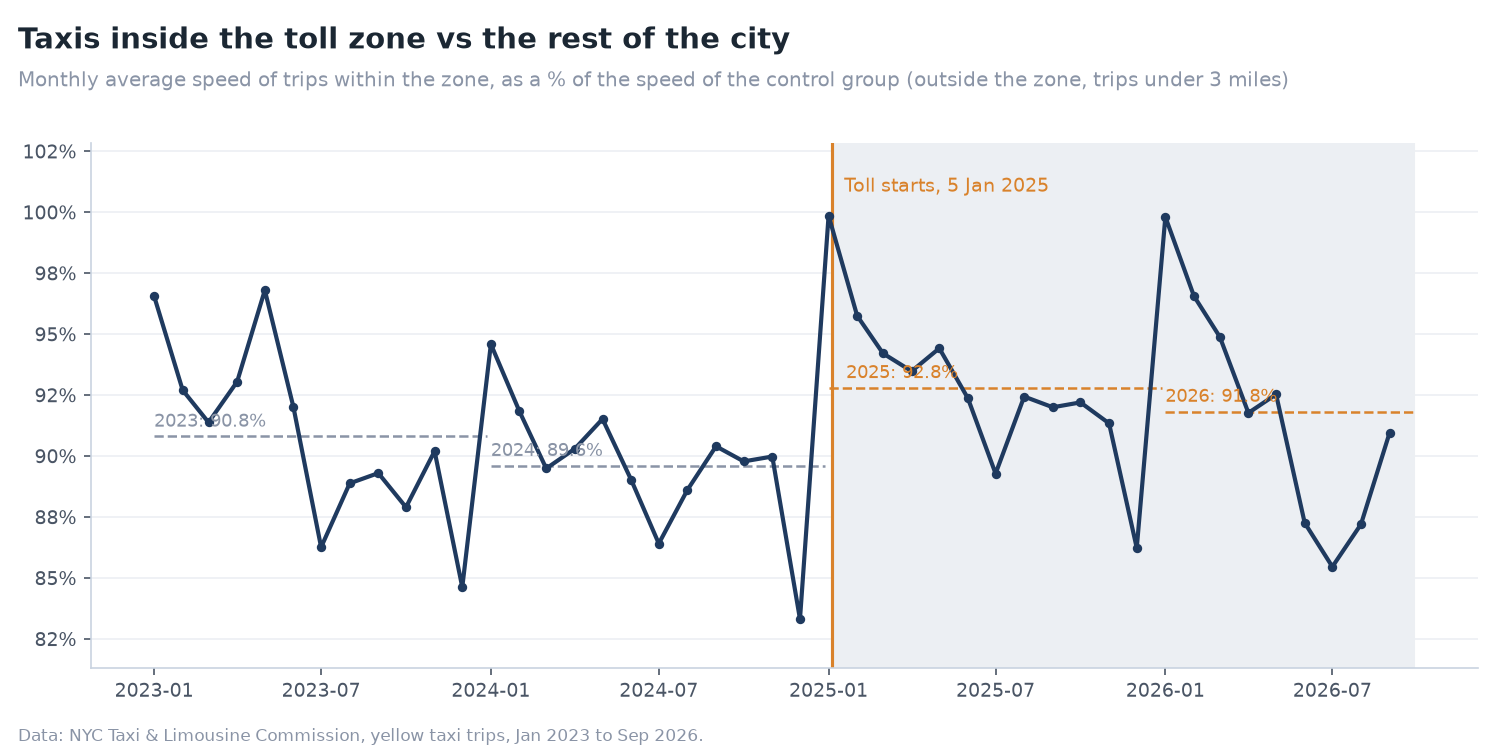
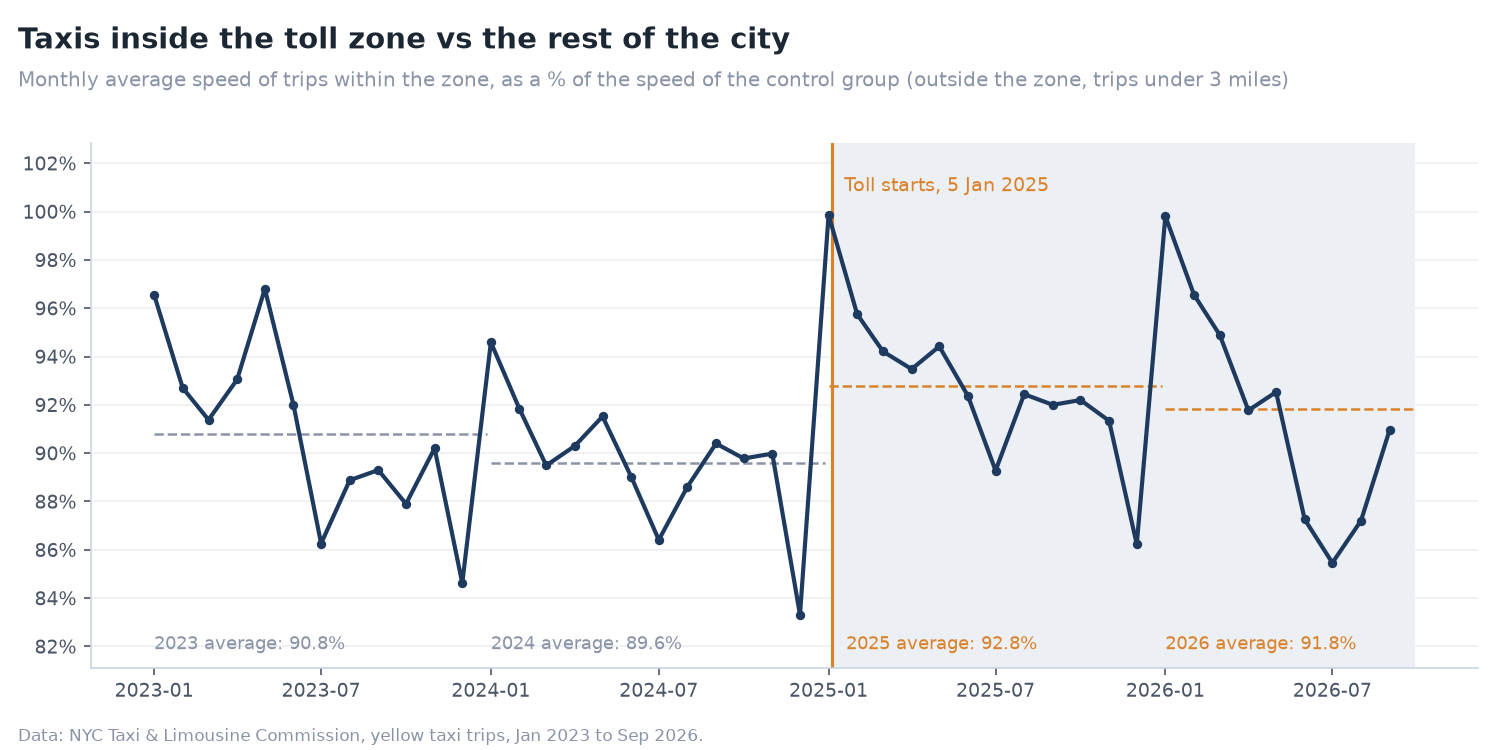
Add Power BI dashboard screenshots and final README

diff --git a/powerbi/build_report.py b/powerbi/build_report.py
@@ -98,14 +98,14 @@ def effect(comparison: str, scope: str, main_only: bool = True) -> list[str]:
 PCT = '+0.0%;-0.0%;0.0%'
 MEASURES = {
     "fct_trips_hourly": [
-        ("Trips", ["SUM(fct_trips_hourly[trips])"], "#,0"),
+        ("Total trips", ["SUM(fct_trips_hourly[trips])"], "#,0"),
         ("Revenue", ["SUM(fct_trips_hourly[total_amount])"], '"$"#,0'),
-        ("Average fare", ["DIVIDE(SUM(fct_trips_hourly[fare_amount]), [Trips])"], '"$"#,0.00'),
+        ("Average fare", ["DIVIDE(SUM(fct_trips_hourly[fare_amount]), [Total trips])"], '"$"#,0.00'),
         ("Average speed (mph)", ["DIVIDE(SUM(fct_trips_hourly[distance_mi]), SUM(fct_trips_hourly[duration_min]) / 60)"], "0.0"),
-        ("Average trip time (min)", ["DIVIDE(SUM(fct_trips_hourly[duration_min]), [Trips])"], "0.0"),
+        ("Average trip time (min)", ["DIVIDE(SUM(fct_trips_hourly[duration_min]), [Total trips])"], "0.0"),
         ("Congestion fees paid", ["SUM(fct_trips_hourly[cbd_fee])"], '"$"#,0'),
-        ("Trips vs previous year", ["VAR Previous = CALCULATE([Trips], DATEADD(dim_date[date], -1, YEAR))",
-                                    "RETURN DIVIDE([Trips] - Previous, Previous)"], PCT),
+        ("Trips vs previous year", ["VAR Previous = CALCULATE([Total trips], DATEADD(dim_date[date], -1, YEAR))",
+                                    "RETURN DIVIDE([Total trips] - Previous, Previous)"], PCT),
         ("Data up to", ['FORMAT(CALCULATE(MAX(fct_trips_hourly[pickup_date]), ALL(fct_trips_hourly)), "mmm yyyy")'], None),
     ],
     "mart_toll_effect": [
@@ -150,8 +150,6 @@ def column(table: str, name: str, dtype: str) -> dict:
         col["isHidden"] = True
     if (table, name) == ("dim_date", "date"):
         col["isKey"] = True
-    if (table, name) == ("dim_date", "year_month"):
-        col["sortByColumn"] = "date"
     if (table, name) == ("dim_segment", "segment_label"):
         col["sortByColumn"] = "sort_order"
     return col
@@ -356,14 +354,14 @@ def build_pages(definition: Path) -> list[str]:
     q = Page(pages, "taxi_activity", "Taxi activity")
     q.title("NYC yellow taxi activity", "Trips, revenue and congestion fees, by month and by relation to the toll zone")
     q.slicer("year_filter", 1064, 14, 200, 50, "dim_date", "year", "Year")
-    q.card("kpi_trips", 16, 80, 302, "fct_trips_hourly", "Trips", "Number of valid trips")
+    q.card("kpi_trips", 16, 80, 302, "fct_trips_hourly", "Total trips", "Number of valid trips")
     q.card("kpi_revenue", 330, 80, 302, "fct_trips_hourly", "Revenue", "Total amount paid by passengers")
     q.card("kpi_fare", 644, 80, 302, "fct_trips_hourly", "Average fare", "Average metered fare per trip")
     q.card("kpi_fees", 958, 80, 306, "fct_trips_hourly", "Congestion fees paid",
            "Congestion fees paid by taxi passengers", C["orange"])
     q.chart("trips_by_month", 16, 180, 820, 300, "columnChart", "Trips per month by relation to the toll zone",
             "Monthly trips stacked by segment",
-            pc("dim_date", "year_month", displayName="Month"), [pm("fct_trips_hourly", "Trips")],
+            pc("dim_date", "year_month", displayName="Month"), [pm("fct_trips_hourly", "Total trips")],
             series=pc("dim_segment", "segment_label", displayName="Segment"),
             sort={"field": column_ref("dim_date", "year_month"), "direction": "Ascending"}, labels=False)
     q.chart("speed_by_segment", 848, 180, 416, 300, "clusteredBarChart", "Average speed by segment (mph)",

diff --git a/scripts/make_charts.py b/scripts/make_charts.py
@@ -16,6 +16,7 @@ matplotlib.use("Agg")
 import matplotlib.pyplot as plt  # noqa: E402
 from matplotlib.patches import PathPatch  # noqa: E402
 from matplotlib.path import Path as MplPath  # noqa: E402
+from matplotlib.ticker import MultipleLocator  # noqa: E402
 
 NAVY = "#1F3A5F"
 ORANGE = "#D9822B"
@@ -64,11 +65,13 @@ def chart_monthly_gap(exports: Path, out: Path, last_month: str, control: str) -
         color = ORANGE if year >= TOLL_START.year else GREY
         ax.hlines(mean, start, end, colors=color, linestyles="--", linewidth=1.2, zorder=2)
         label_x = start.replace(day=20) if year == TOLL_START.year else start
-        ax.text(label_x, mean + 0.4, f"{year}: {mean:.1f}%", fontsize=8.5, color=color)
+        ax.text(label_x, min(ratio) - 1.6, f"{year} average: {mean:.1f}%", fontsize=8.5, color=color,
+                va="bottom", zorder=5)
 
     ax.axvline(TOLL_START, color=ORANGE, linewidth=1.5)
     ax.text(TOLL_START, max(ratio) + 0.8, "  Toll starts, 5 Jan 2025", color=ORANGE, fontsize=9, va="bottom")
-    ax.set_ylim(min(ratio) - 2, max(ratio) + 3)
+    ax.set_ylim(min(ratio) - 2.2, max(ratio) + 3)
+    ax.yaxis.set_major_locator(MultipleLocator(2))
     ax.yaxis.set_major_formatter(lambda v, _: f"{v:.0f}%")
     ax.grid(axis="y", color=PALE)
     style(fig, ax, "Taxis inside the toll zone vs the rest of the city",

diff --git a/README.md b/README.md
@@ -19,8 +19,10 @@ on every yellow taxi trip since January 2023, with a pipeline that refreshes its
 - **Main result: taxis inside the zone got about 3.6% faster in 2025** than comparable short trips elsewhere in the city
   (95% confidence interval: +2.4% to +4.9%). The same test run on 2024 vs 2023, when there was no toll, gives −1.0%
   (not significant), which is what you want from a placebo.
-- **The effect is modest and fading.** It drops to +1.5% for the first nine months of 2026. In plain speed, taxis inside
-  the zone went from 7.9 mph in 2024 to 8.1 mph in 2025, then back to 7.8 mph in 2026 so far.
+- **The effect is modest, and may be fading.** It drops to +1.5% for the first nine months of 2026. If I also correct
+  for the small drift seen before the toll (not significant on its own), both years stay around +4%, so the fade is not
+  certain yet: the monthly refresh will tell. In plain speed, taxis inside the zone went from 7.9 mph in 2024
+  to 8.1 mph in 2025, then back to 7.8 mph in 2026 so far.
 - **My first estimate was wrong, and the robustness checks caught it.** Against *all* trips outside the zone, the effect
   looked like +5.7%. But that control group mixes airport runs and highway trips with local streets, and those moved in
   different directions in 2025: trips from JFK got slower (21.6 to 21.0 mph) while longer trips outside the zone got faster,
